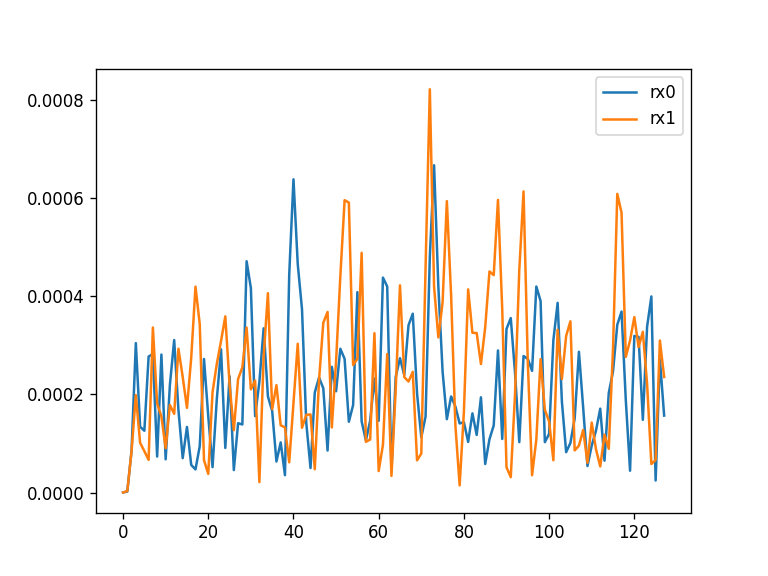
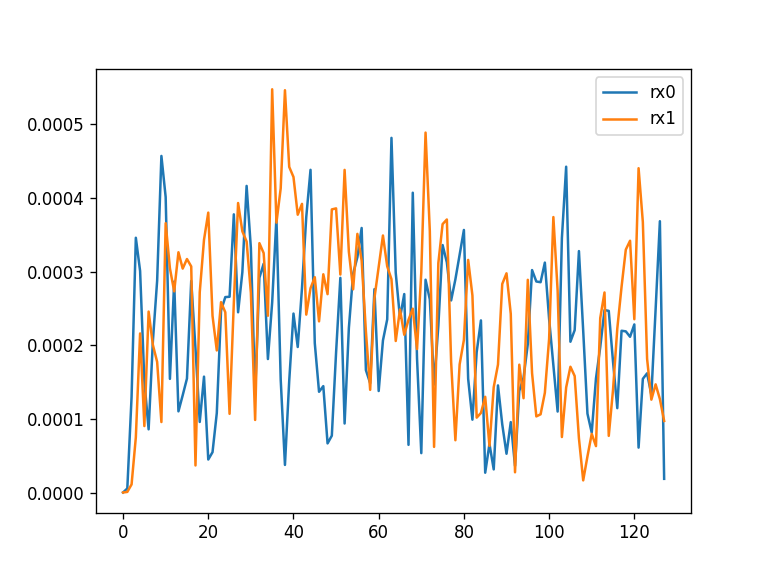
tryign to add trigger signal, ad2 not picking it up

diff --git a/marcos_client/multiExp.py b/marcos_client/multiExp.py
@@ -36,7 +36,7 @@ class MultiExperiment:
             self.event_dict[board_id] = {}
             if board_id == 0:  # main system synchronizer
                 #self.exps[board_id] = exCtrl.ExperimentController(**{**defaults, **args})
-                self.exps[board_id] = exExt.ExperimentExternal(**{**defaults, **args})
+                self.exps[board_id] = exCtrl.ExperimentController(**{**defaults, **args})
             else: # recieve synchronization signals and send responses
                 self.exps[board_id] = exFol.ExperimentFollower(**{**defaults, **args})
 
@@ -57,10 +57,23 @@ class MultiExperiment:
             board_id: exp.plot_sequence()
             for board_id, exp in self.exps.items()
         }
+    def compile(self, trig_delay=0, trig_length=2):
+        print(f"Compiling multi-experiment with trig_delay={trig_delay} and trig_length={trig_length}")
+        for board_id, e in self.exps.items():
+            if board_id == 0:
+                print(f"Compiling board {board_id} with trig_delay={trig_delay} and trig_length={trig_length}")
+                e.compile(trig_delay=trig_delay, trig_length=trig_length)
+            else:
+                e.compile()
 
-    def run(self):
+    def run(self, trig_delay, trig_length):
         rxd = {}
         msgs = {}
+        print(f"Running multi-experiment with trig_delay={trig_delay} and trig_length={trig_length}")
+
+        for e in self.exps.values():
+            if not e._seq_compiled:
+                e.compile(trig_delay = trig_delay, trig_length = trig_length)
 
         for board_id, exp in self.exps.items():
             print(f"\nRunning board {board_id}: {type(exp).__name__}")
@@ -76,6 +89,68 @@ class MultiExperiment:
 
         return rxd, msgs
 
+
+
+    
+
+
+
+
+
+
+
+
+
+
+
+
+    '''
+    def run(self):
+            """ compile the TX and grad data, send everything over.
+            Returns the resultant data """
+    
+            if not self._seq_compiled:
+                self.compile()
+    
+            if self._flush_old_rx:
+                rx_data_old, _ = sc.command({'read_rx': 0}, self._s)
+                # TODO: do something with RX data previously collected by the server
+    
+            bytecode = self._machine_code.tobytes()
+            log.info("Sending run_seq (%d bytes) to MaRCoS", len(bytecode))
+            try:
+                rx_data, msgs = sc.command({'run_seq': bytecode}, self._s)
+            except (OSError, ConnectionError) as exc:
+                raise ConnectionError(
+                    f"MaRCoS closed while running the sequence ({exc}). "
+                    "Do not Ping during a scan. On the Red Pitaya, watch marcos_server for an MPack error."
+                ) from exc
+    
+            rxd = rx_data[4]['run_seq']
+            rxd_iq = {}
+    
+            # (1 << 24) just for the int->float conversion to be reasonable - exact value doesn't matter for now
+            rx0_norm_factor = self._rx0_cic_factor / (1 << 24)
+            rx1_norm_factor = self._rx0_cic_factor / (1 << 24)
+    
+            try:
+                rxd_iq['rx0'] = rx0_norm_factor * ( np.array(rxd['rx0_i']).astype(np.int32).astype(float) + \
+                                 1j * np.array(rxd['rx0_q']).astype(np.int32).astype(float) )
+            except (KeyError, TypeError):
+                pass
+    
+            try:
+                rxd_iq['rx1'] = rx1_norm_factor * ( np.array(rxd['rx1_i']).astype(np.int32).astype(float) + \
+                                 1j * np.array(rxd['rx1_q']).astype(np.int32).astype(float) )
+            except (KeyError, TypeError):
+                pass
+    
+            return rxd_iq, msgs
+    
+    
+    '''
+
     def close_server(self, only_if_sim=False):
+        
         for exp in self.exps.values():
             exp.close_server(only_if_sim=only_if_sim)

diff --git a/marcos_experiments/mutliboard.py b/marcos_experiments/mutliboard.py
@@ -11,7 +11,9 @@ import multiExp as mEx
 #169.254.44.172
 #   169.254.44.172 
 def multi_experiment():
-    exp = mEx.MultiExperiment(boards={1: dict(ip="169.254.138.35", port = 11111, lo_freq=5, rx_t=3.125)})
+    trig_delay = 10
+    trig_length = 20000
+    exp = mEx.MultiExperiment(boards={0: dict(ip="169.254.44.172", port = 11111, lo_freq=5, rx_t=3.125)})
                                     #   0: dict(ip="localhost", port = 11112, lo_freq=5, rx_t=3.125)})
 
     # exp = mEx.MultiExperiment(boards={0: dict(ip="...", port = ""),
@@ -19,7 +21,7 @@ def multi_experiment():
     #                         defaults=dict(lo_freq=5, rx_t=3.125))
 
     event_dict = {
-        1: {
+        0: {
             "tx0": (
                         np.array([50, 130, 200, 360]),
                         np.array([0.5, 0, 0.5j, 0]),
@@ -32,18 +34,20 @@ def multi_experiment():
         #     "rx0_en": (np.array([400, 800]), np.array([1, 0])),  # adc 0
         # }
     }
-    exp.add_flodict(event_dict)
-    exp.plot_sequence()
 
-    rxd, msgs = exp.run()  # rxd is the array
+    exp.add_flodict(event_dict)
+    # exp.plot_sequence()
+    rxd, msgs = exp.run(trig_delay, trig_length)  # rxd is the array
     exp.close_server(only_if_sim=True)
+    # exp.plot_sequence()
 
     # plt.plot(np.abs(rxd[0]["rx1"]))   # board 0, adc 1
     plt.figure()
-    plt.plot(np.abs(rxd[1]["rx0"]), label="rx0")   # board 1, adc 0
-    plt.plot(np.abs(rxd[1]["rx1"]), label="rx1")   # board 1, adc 1
+    plt.plot(np.abs(rxd[0]["rx0"]), label="rx0")   # board 0, adc 0
+    plt.plot(np.abs(rxd[0]["rx1"]), label="rx1")   # board 0, adc 1
     plt.legend()
     plt.savefig("rx_multi.png", dpi=120)
+    print("Received data:")
 
 
 if __name__ == "__main__":

diff --git a/marcos_client/experimentController.py b/marcos_client/experimentController.py
@@ -139,3 +139,11 @@ class ExperimentController(exp.Experiment):
         self._set_cic_shift = set_cic_shift
         self._flush_old_rx = flush_old_rx
         self._allow_user_init_cfg = allow_user_init_cfg
+
+    def compile(self, trig_delay=None, trig_length=None):
+        if self._seq is None or 'trig_out' not in self._seq:
+            exp.Experiment.add_flodict(self, {
+                'trig_out': (np.array([trig_delay, trig_delay + trig_length, trig_delay + trig_length *2, trig_delay + trig_length *3, ]), np.array([1, 0, 1, 0]))
+            })
+        print(self._seq)
+        super().compile()

diff --git a/marcos_client/local_config.py b/marcos_client/local_config.py
@@ -1,7 +1,7 @@
 import sys
 from pathlib import Path
 
-ip_address = "169.254.138.35"
+ip_address = "169.254.44.172"
 
 ## Port: MaRCoS control port (default 11111)
 port = 11111
